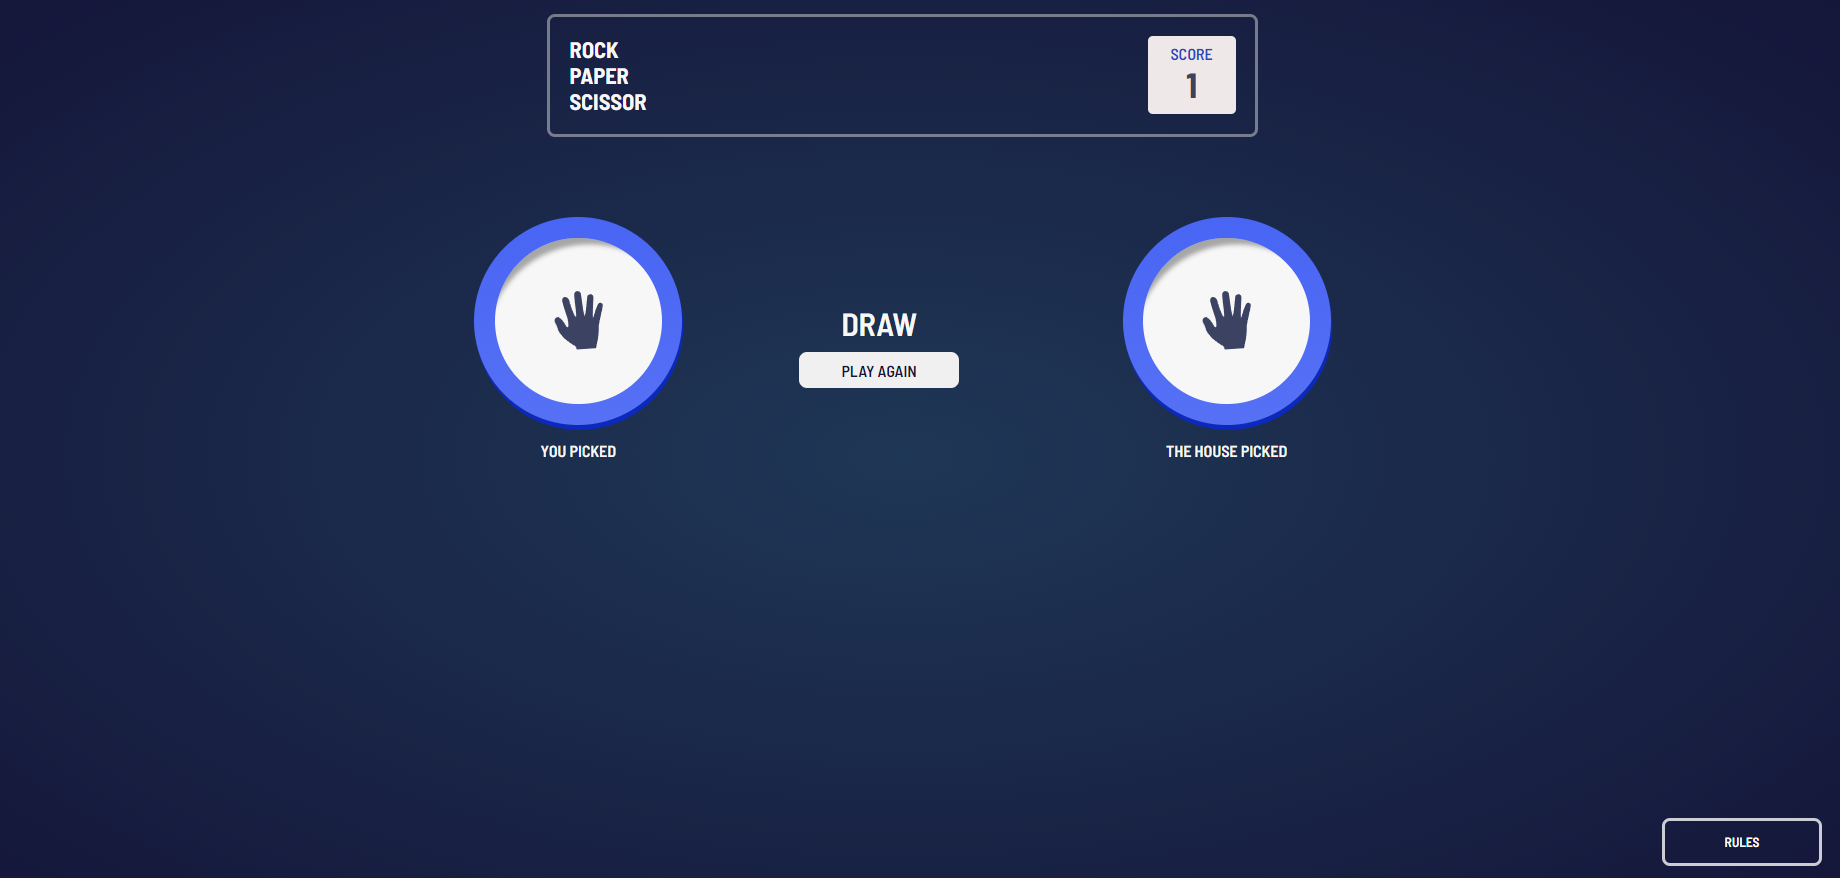
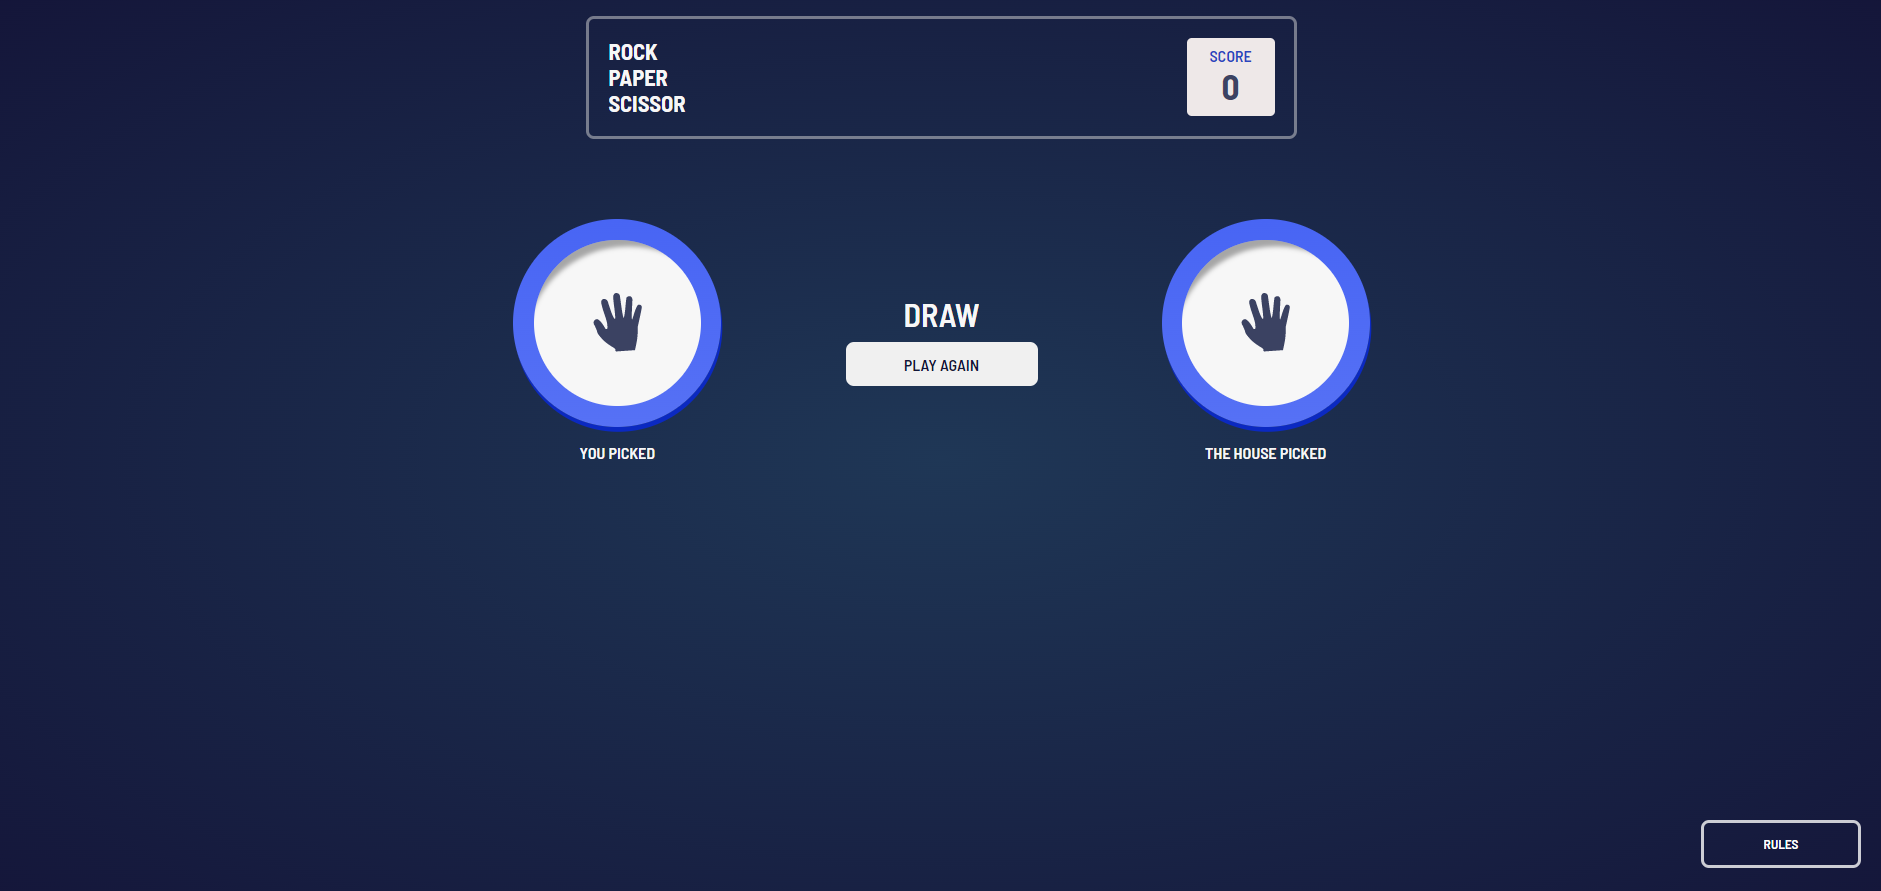
fix play again btn position

diff --git a/src/Screens/OutcomeScreen/outcomeScreen.css b/src/Screens/OutcomeScreen/outcomeScreen.css
@@ -5,7 +5,7 @@
 }
 
 .outcome-ai-choice {
-	margin-left: auto;
+	width: fit-content;
 }
 
 .outcome-text {
@@ -18,8 +18,13 @@
 }
 
 .outcome-dark-circle {
+	margin-left: auto;
 	border-radius: 50%;
 	background: var(--background-gradient-to);
+}
+
+.outcome-dark-circle-container {
+	width: 100%;
 }
 
 .playagain-container {
@@ -34,8 +39,8 @@
 }
 
 .playagain-btn-container button {
-	width: 10rem;
-	height: 2.3rem;
+	width: 12rem;
+	height: 2.7rem;
 	border-radius: 0.5rem;
 	border: 0;
 	margin-top: 0.6rem;

diff --git a/src/Screens/OutcomeScreen/OutcomeScreen.jsx b/src/Screens/OutcomeScreen/OutcomeScreen.jsx
@@ -48,7 +48,10 @@ const OutcomeScreen = ({ myChoice, setPoints, playagain }) => {
 					</div>
 				</div>
 			)}
-			<div className='outcome-ai-choice'>
+			<div
+				className='outcome-ai-choice'
+				style={!ai ? { marginLeft: 'auto' } : null}
+			>
 				{ai ? (
 					<RockPaperScissor
 						src={ai.svg}

diff --git a/README.md b/README.md
@@ -21,6 +21,29 @@
 <br>
 <img src="./design/my-solution/my-solution-rpb-mobile-win-3.png"/>
 
+---
+
+### Screenshots of Frontend mentor's original solution
+
+#### Desktop version
+
+<img src="./design/original/desktop-step-1.jpg" />
+<br>
+<img src="./design/original/desktop-rules-modal.jpg"/>
+<br>
+<img src="./design/original/desktop-step-4-win.jpg"/>
+<br><br>
+
+#### Mobiel version
+
+<img src="./design/original/mobile-step-1.jpg" />
+<br>
+<img src="./design/original/mobile-rules-modal.jpg"/>
+<br>
+<img src="./design/original/mobile-step-4-win.jpg"/>
+
+---
+
 #### What could be changed ?
 
 - Use context instead of <b>prop-drilling</b>.
